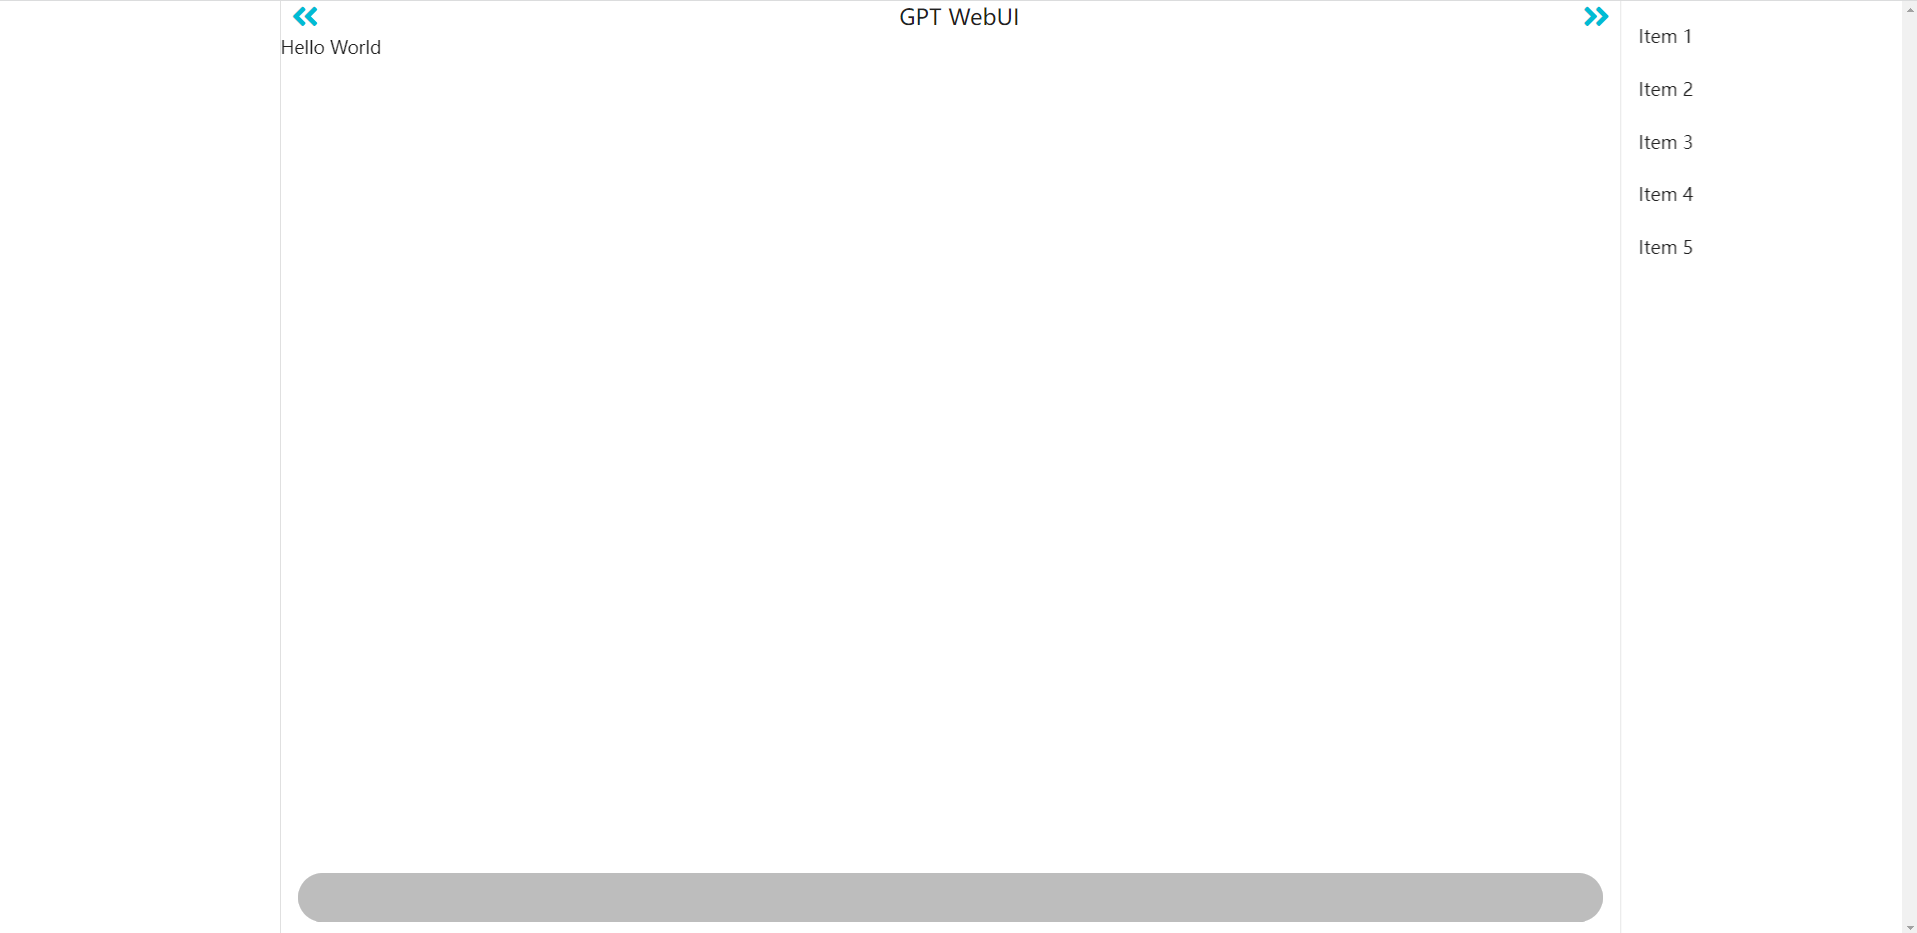
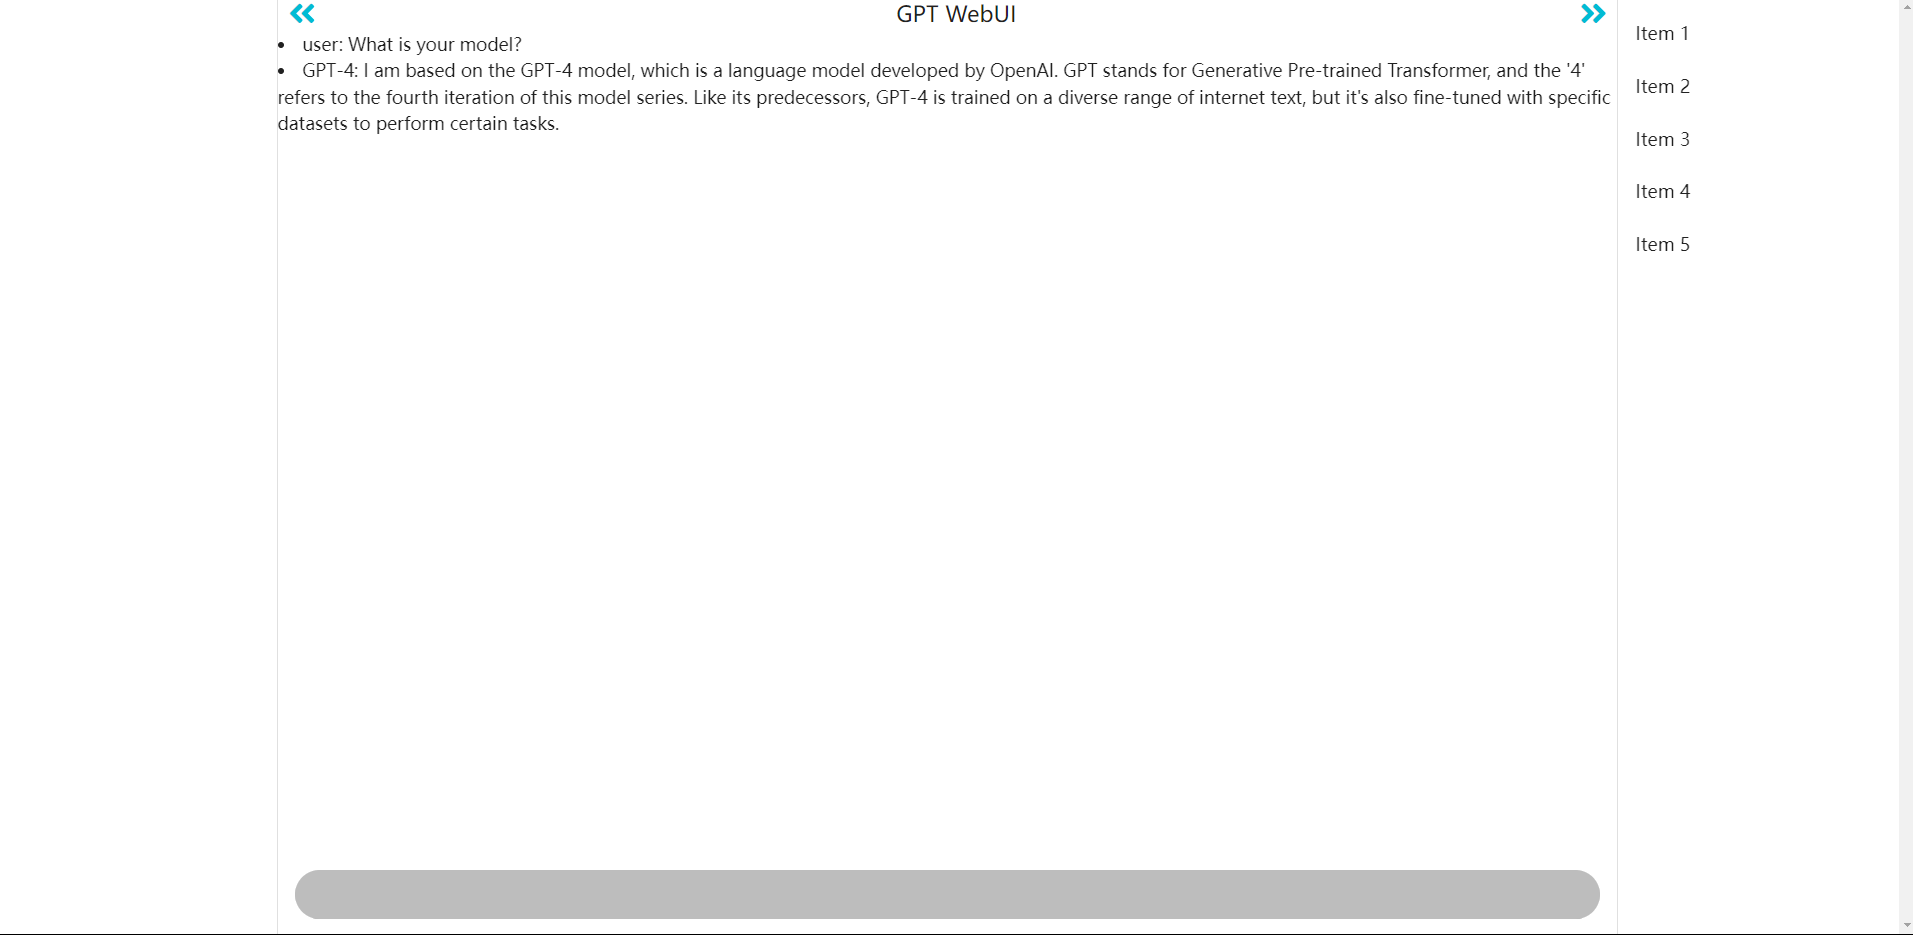
[Feature] New Chats component which renders message

diff --git a/src/components/Chats.vue b/src/components/Chats.vue
@@ -1,0 +1,25 @@
+<script lang="ts">
+import { defineComponent } from 'vue'
+
+export default defineComponent({
+  data: () => ({
+    messages: [
+      {
+        role: 'user',
+        content: 'What is your model?'
+      },
+      {
+        role: 'GPT-4',
+        content:
+          "I am based on the GPT-4 model, which is a language model developed by OpenAI. GPT stands for Generative Pre-trained Transformer, and the '4' refers to the fourth iteration of this model series. Like its predecessors, GPT-4 is trained on a diverse range of internet text, but it's also fine-tuned with specific datasets to perform certain tasks."
+      }
+    ]
+  })
+})
+</script>
+
+<template>
+  <div>
+    <li v-for="message in messages">{{ message.role }}: {{ message.content }}</li>
+  </div>
+</template>

diff --git a/src/views/HomeView.vue b/src/views/HomeView.vue
@@ -1,15 +1,14 @@
 <script lang="ts">
 import { defineComponent } from 'vue'
-import ChatHistory from '@/components/ChatHistory.vue'
-import UserInput from '@/components/UserInput.vue'
+import Chats from '@/components/Chats.vue'
 
 export default defineComponent({
   components: {
-    UserInput
+    Chats
   },
   data: () => ({
-    left_sidebar_visible: false,
-    right_sidebar_visible: false,
+    left_sidebar_visible: true,
+    right_sidebar_visible: true,
     app_bar_title: 'GPT WebUI'
   })
 })
@@ -42,7 +41,9 @@ export default defineComponent({
       ></v-icon>
     </v-app-bar>
 
-    <v-main>Hello World</v-main>
+    <v-main>
+      <Chats />
+    </v-main>
 
     <v-footer app height="72">
       <v-text-field
